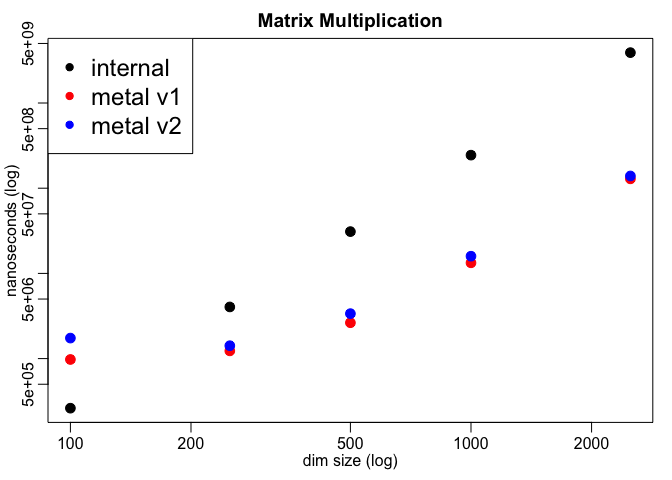
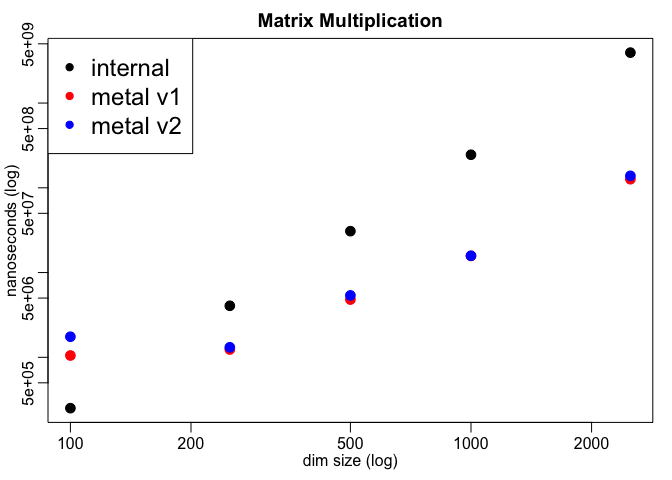
deprecate in favor of ardea

diff --git a/README.md b/README.md
@@ -1,7 +1,7 @@
 Alternative Compute Framework: Metal 0.1.1
 ================
 Nicholas Cooley
-2026-08-15
+2026-09-18
 
 - [Introduction](#introduction)
   - [Brief Metal API introduction](#brief-metal-api-introduction)
@@ -17,7 +17,18 @@ Nicholas Cooley
 
 **Infrastructure for calling Apple’s Metal framework from R**
 
+<!-- badges: start -->
+
+[![Lifecycle:
+deprecated](https://img.shields.io/badge/lifecycle-deprecated-red.svg)](https://lifecycle.r-lib.org/articles/stages.html)
+<!-- badges: end -->
+
 # Introduction
+
+**This package is no longer under development.** The capabilities
+presented here are now supported in
+[ardea](https://github.com/npcooley/ardea), which has recently been
+submitted to CRAN.
 
 Metal is [Apple’s builtin framework for GPU
 compute](https://developer.apple.com/documentation/metal?language=objc),
@@ -409,7 +420,7 @@ R, and macOS.
 
 ``` r
 Sys.time()
-# [1] "2026-08-15 10:06:24 PDT"
+# [1] "2026-09-18 18:47:08 EDT"
 system2(command = "sysctl",
         args = " -n machdep.cpu.brand_string",
         stdout = TRUE)
@@ -417,7 +428,7 @@ system2(command = "sysctl",
 sessionInfo()
 # R version 4.5.1 (2025-06-13)
 # Platform: aarch64-apple-darwin20
-# Running under: macOS Sequoia 15.7.4
+# Running under: macOS Sequoia 15.7.9
 # 
 # Matrix products: default
 # BLAS:   /Library/Frameworks/R.framework/Versions/4.5-arm64/Resources/lib/libRblas.0.dylib 
@@ -426,7 +437,7 @@ sessionInfo()
 # locale:
 # [1] en_US.UTF-8/en_US.UTF-8/en_US.UTF-8/C/en_US.UTF-8/en_US.UTF-8
 # 
-# time zone: America/Los_Angeles
+# time zone: America/New_York
 # tzcode source: internal
 # 
 # attached base packages:
